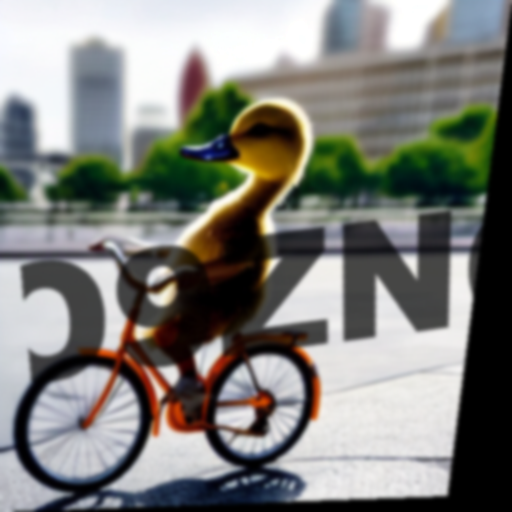
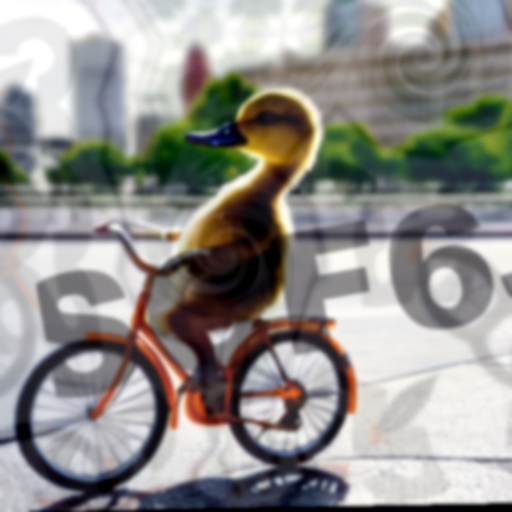
working swirls

diff --git a/packages/datasets/src/python/processor.py b/packages/datasets/src/python/processor.py
@@ -3,6 +3,8 @@ import numpy as np
 import random
 import string
 import os
+from skimage import transform
+from skimage.util import img_as_ubyte
 
 
 class ImageProcessor:
@@ -42,7 +44,7 @@ class ImageProcessor:
             random.choices(string.ascii_uppercase + string.digits, k=5)
         )
 
-        # Estimate font size as 50% of the image height
+        # Estimate font size
         font_size = self.image.height // 3
         font = ImageFont.truetype(self.font_path, font_size)
 
@@ -57,7 +59,7 @@ class ImageProcessor:
             text_image.height - height
         ) / 3
 
-        text_draw.text((x_position, y_position), random_word, (0, 0, 0, 180), font=font)
+        text_draw.text((x_position, y_position), random_word, (0, 0, 0, 126), font=font)
 
         # Randomly rotate the text
         angle = random.randint(-45, 45)
@@ -104,6 +106,33 @@ class ImageProcessor:
         blurred_image = self.image.filter(ImageFilter.GaussianBlur(radius=2))
         self.image = ImageOps.autocontrast(blurred_image.convert("RGB"), cutoff=1)
 
+    def multiple_swirls(self):
+        # Convert the PIL image to a NumPy array
+        image_array = np.array(self.image)
+
+        # Number of swirls (customize as needed)
+        num_swirls = 5
+
+        # Loop through multiple centres
+        for _ in range(num_swirls):
+            # Randomly select a centre
+            y_center, x_center = np.random.randint(0, image_array.shape[0]), np.random.randint(0, image_array.shape[1])
+
+            # Swirl transformation parameters
+            rotation = np.random.rand() * np.pi
+            strength = 10 * np.random.rand()
+            radius = min(image_array.shape[0], image_array.shape[1]) / (2. * np.random.rand() + 2.)
+
+            # Apply the swirl transformation to the coordinates
+            image_array = transform.swirl(image_array, center=(y_center, x_center), rotation=rotation, strength=strength, radius=radius)
+
+        # Warp the image using these coordinates
+        swirled_image_array = Image.fromarray(img_as_ubyte(image_array))
+
+        # Convert the array back to a PIL image and assign it to self.image
+        self.image = Image.blend(self.image, swirled_image_array, alpha=0.2)
+
+
     def get_filename_without_extension(self, filepath):
         return os.path.splitext(os.path.basename(filepath))[0]
 
@@ -113,10 +142,13 @@ class ImageProcessor:
 
             self.add_noise()
             self.add_text()
+            self.multiple_swirls()
             self.distort_image()
             self.blur_and_contrast()
 
-            filename = f"{self.get_filename_without_extension(image_path)}_processed.png"
-            
+            filename = (
+                f"{self.get_filename_without_extension(image_path)}_processed.png"
+            )
+
             output_path = os.path.join(output_folder, filename)
             self.image.save(output_path)
